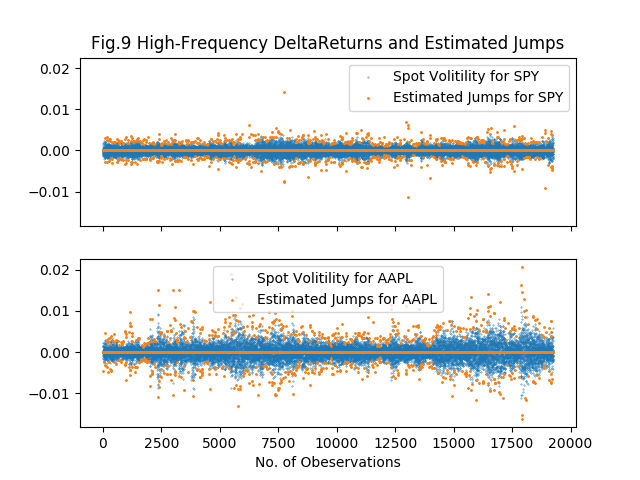
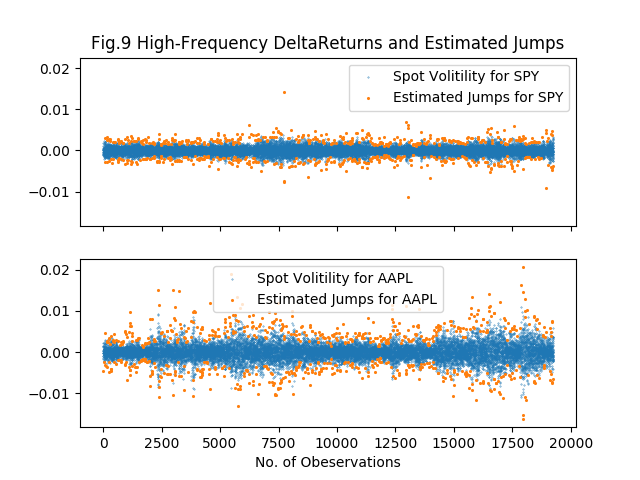
Calculate continuous difference time series with jumps (estimated ones) removed.

diff --git a/high_frequency.py b/high_frequency.py
@@ -83,7 +83,9 @@ def main():
     print('{0}\n[INFO] Finished calculating high-frequency daily volatilities.'.
         format('=' * 20 + NOW() + '=' * 20))
 
-    # ------------part 2, qeustion 4: jump estimation-----------------
+    # -----------------------------------------------------------
+    # ------------part 2, qeustion 4: jump estimation------------
+    # -----------------------------------------------------------
     Delta = 1/float(N_DailyObs)
 
     Thresholds = dict()
@@ -123,11 +125,11 @@ def main():
             Thresholds['AAPL'][idx * N_DailyObs:(idx + 1) * N_DailyObs] = ThisThresholdAAPL
 
     Jumps = dict()
-    Jumps['SPY'] = np.zeros_like(DeltaSPY)
+    Jumps['SPY'] = np.array([np.nan]*len(DeltaSPY))
     JumpIndexSPY = AbsDelta['SPY'] > np.abs(Thresholds['SPY'][1:])
     Jumps['SPY'][JumpIndexSPY] = DeltaSPY[JumpIndexSPY]
 
-    Jumps['AAPL'] = np.zeros_like(DeltaAAPL)
+    Jumps['AAPL'] = np.array([np.nan]*len(DeltaSPY))
     JumpIndexAAPL = AbsDelta['AAPL'] > np.abs(Thresholds['AAPL'][1:])
     Jumps['AAPL'][JumpIndexAAPL] = DeltaAAPL[JumpIndexAAPL]
 
@@ -143,12 +145,47 @@ def main():
         thisDeltaReturnserie = DeltaReturns[Key]
         XAxis = range(len(thisDeltaReturnserie))
         axis.scatter(x=XAxis, y=thisDeltaReturnserie, s=0.1, label='Spot Volitility for {}'.format(Key))
-        axis.scatter(x=XAxis, y=thisJumpSerie, s=1, label='Estimated Jumps for {}'.format(Key))
+        axis.scatter(x=XAxis, y=thisJumpSerie, s=1.5, label='Estimated Jumps for {}'.format(Key))
         axis.legend()
 
     ax1.set_title('Fig.9 High-Frequency DeltaReturns and Estimated Jumps')
     plt.xlabel('No. of Obeservations')
     plt.savefig('Fig_9.png')
+
+    # -----------------------------------------------------------
+    # ---------part 3, qeustion 4: continuous estimation---------
+    # -----------------------------------------------------------
+    Continuous = dict()
+    Continuous['AAPL'] = DeltaAAPL - np.nan_to_num(Jumps['AAPL'])
+    Continuous['SPY'] = DeltaSPY- np.nan_to_num(Jumps['SPY'])
+    WeeklyContinuousVol = dict()
+    WeeklyContinuousVol['SPY'] = np.array([0.0] * VolLenWeekly)
+    WeeklyContinuousVol['AAPL'] = np.array([0.0] * VolLenWeekly)
+
+    for idx in range(VolLenWeekly):
+        if idx + N_WeeklyObs > len(DeltaSPY):
+            WeeklyChunkSPY = np.square(Continuous['SPY'][idx * N_WeeklyObs:])
+            WeeklyChunkAAPL = np.square(Continuous['AAPL'][idx * N_WeeklyObs:])
+        else:
+            WeeklyChunkSPY = np.square(Continuous['SPY'][idx * N_WeeklyObs:(idx + 1) * N_WeeklyObs])
+            WeeklyChunkAAPL= np.square(Continuous['AAPL'][idx * N_WeeklyObs:(idx + 1) * N_WeeklyObs])
+
+        WeeklyContinuousVol['SPY'][idx] = np.sum(WeeklyChunkSPY)
+        WeeklyContinuousVol['AAPL'][idx] = np.sum(WeeklyChunkAAPL)
+
+    plt.figure(figsize=(8, 6))
+    f, (ax1, ax2) = plt.subplots(2, sharex=True, sharey=True)
+    for idy, axis in enumerate([ax1, ax2]):
+        Key = WeeklySpotVol.keys()[idy]
+        thisRawVol = WeeklySpotVol[Key]
+        thisConVol = WeeklyContinuousVol[Key]
+        # XAxis = range(len(thisRawVol))
+        axis.plot(thisRawVol, label='Volatility of {}, Mixture'.format(Key))
+        axis.plot(thisConVol, label='Volatility of {}, Continuous'.format(Key))
+        axis.legend()
+    ax1.set_title('Fig.10 Continuous Weekly Volatilities')
+    plt.xlabel('No. of Obeservations')
+    plt.savefig('Fig_10.png')
 
 
 if __name__ == '__main__':
